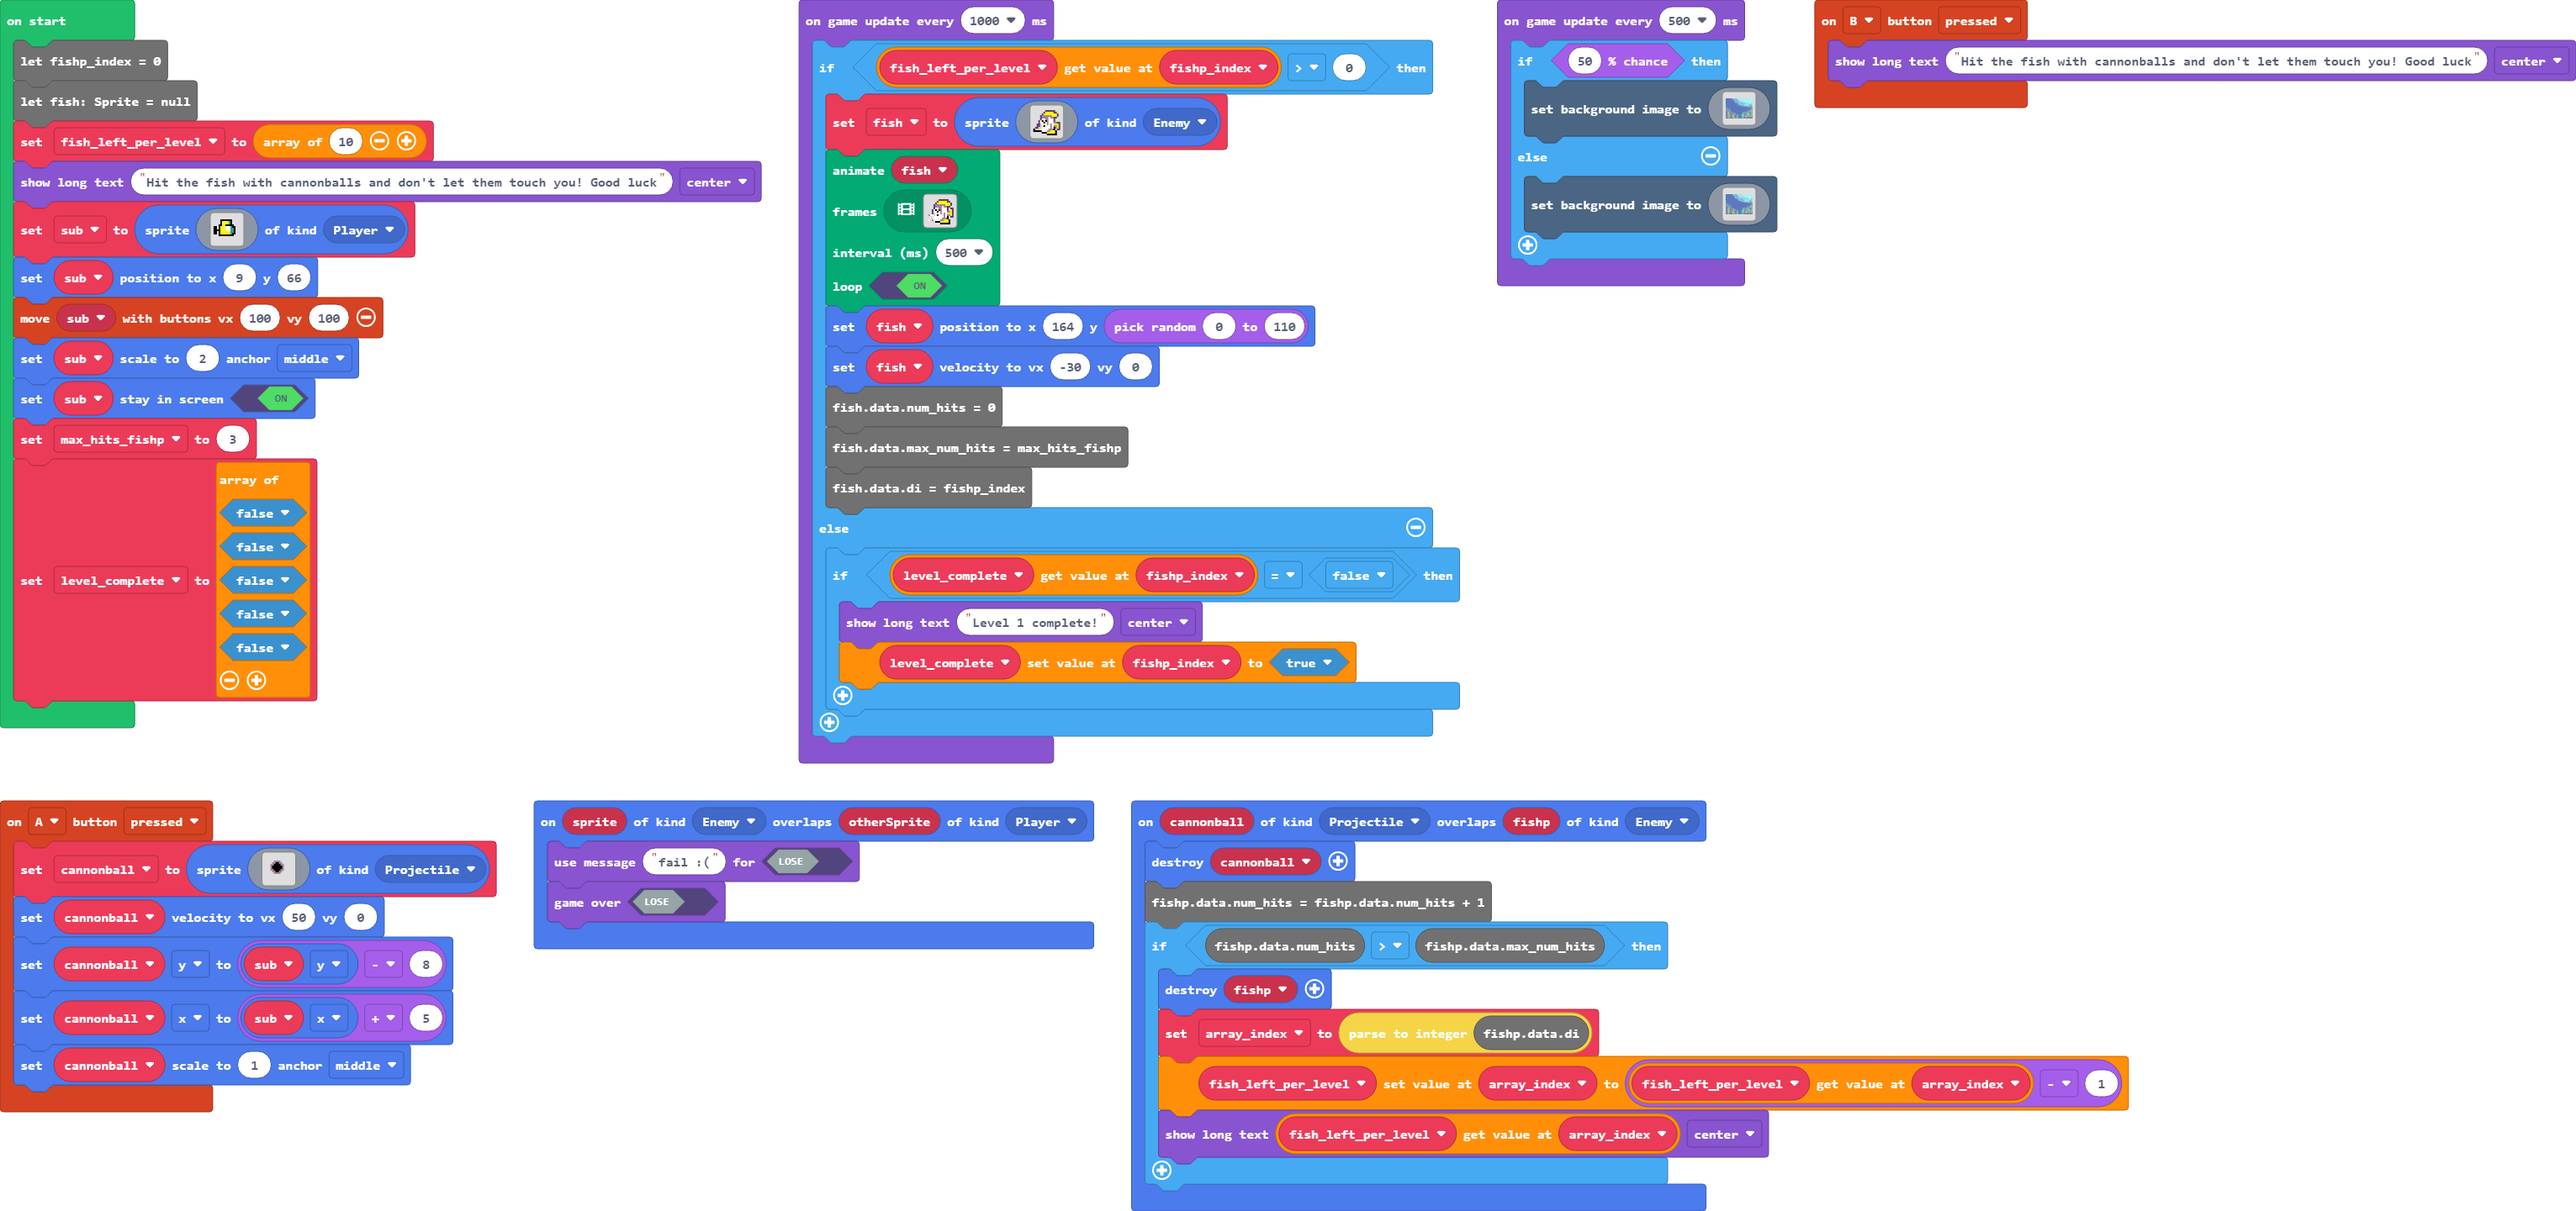
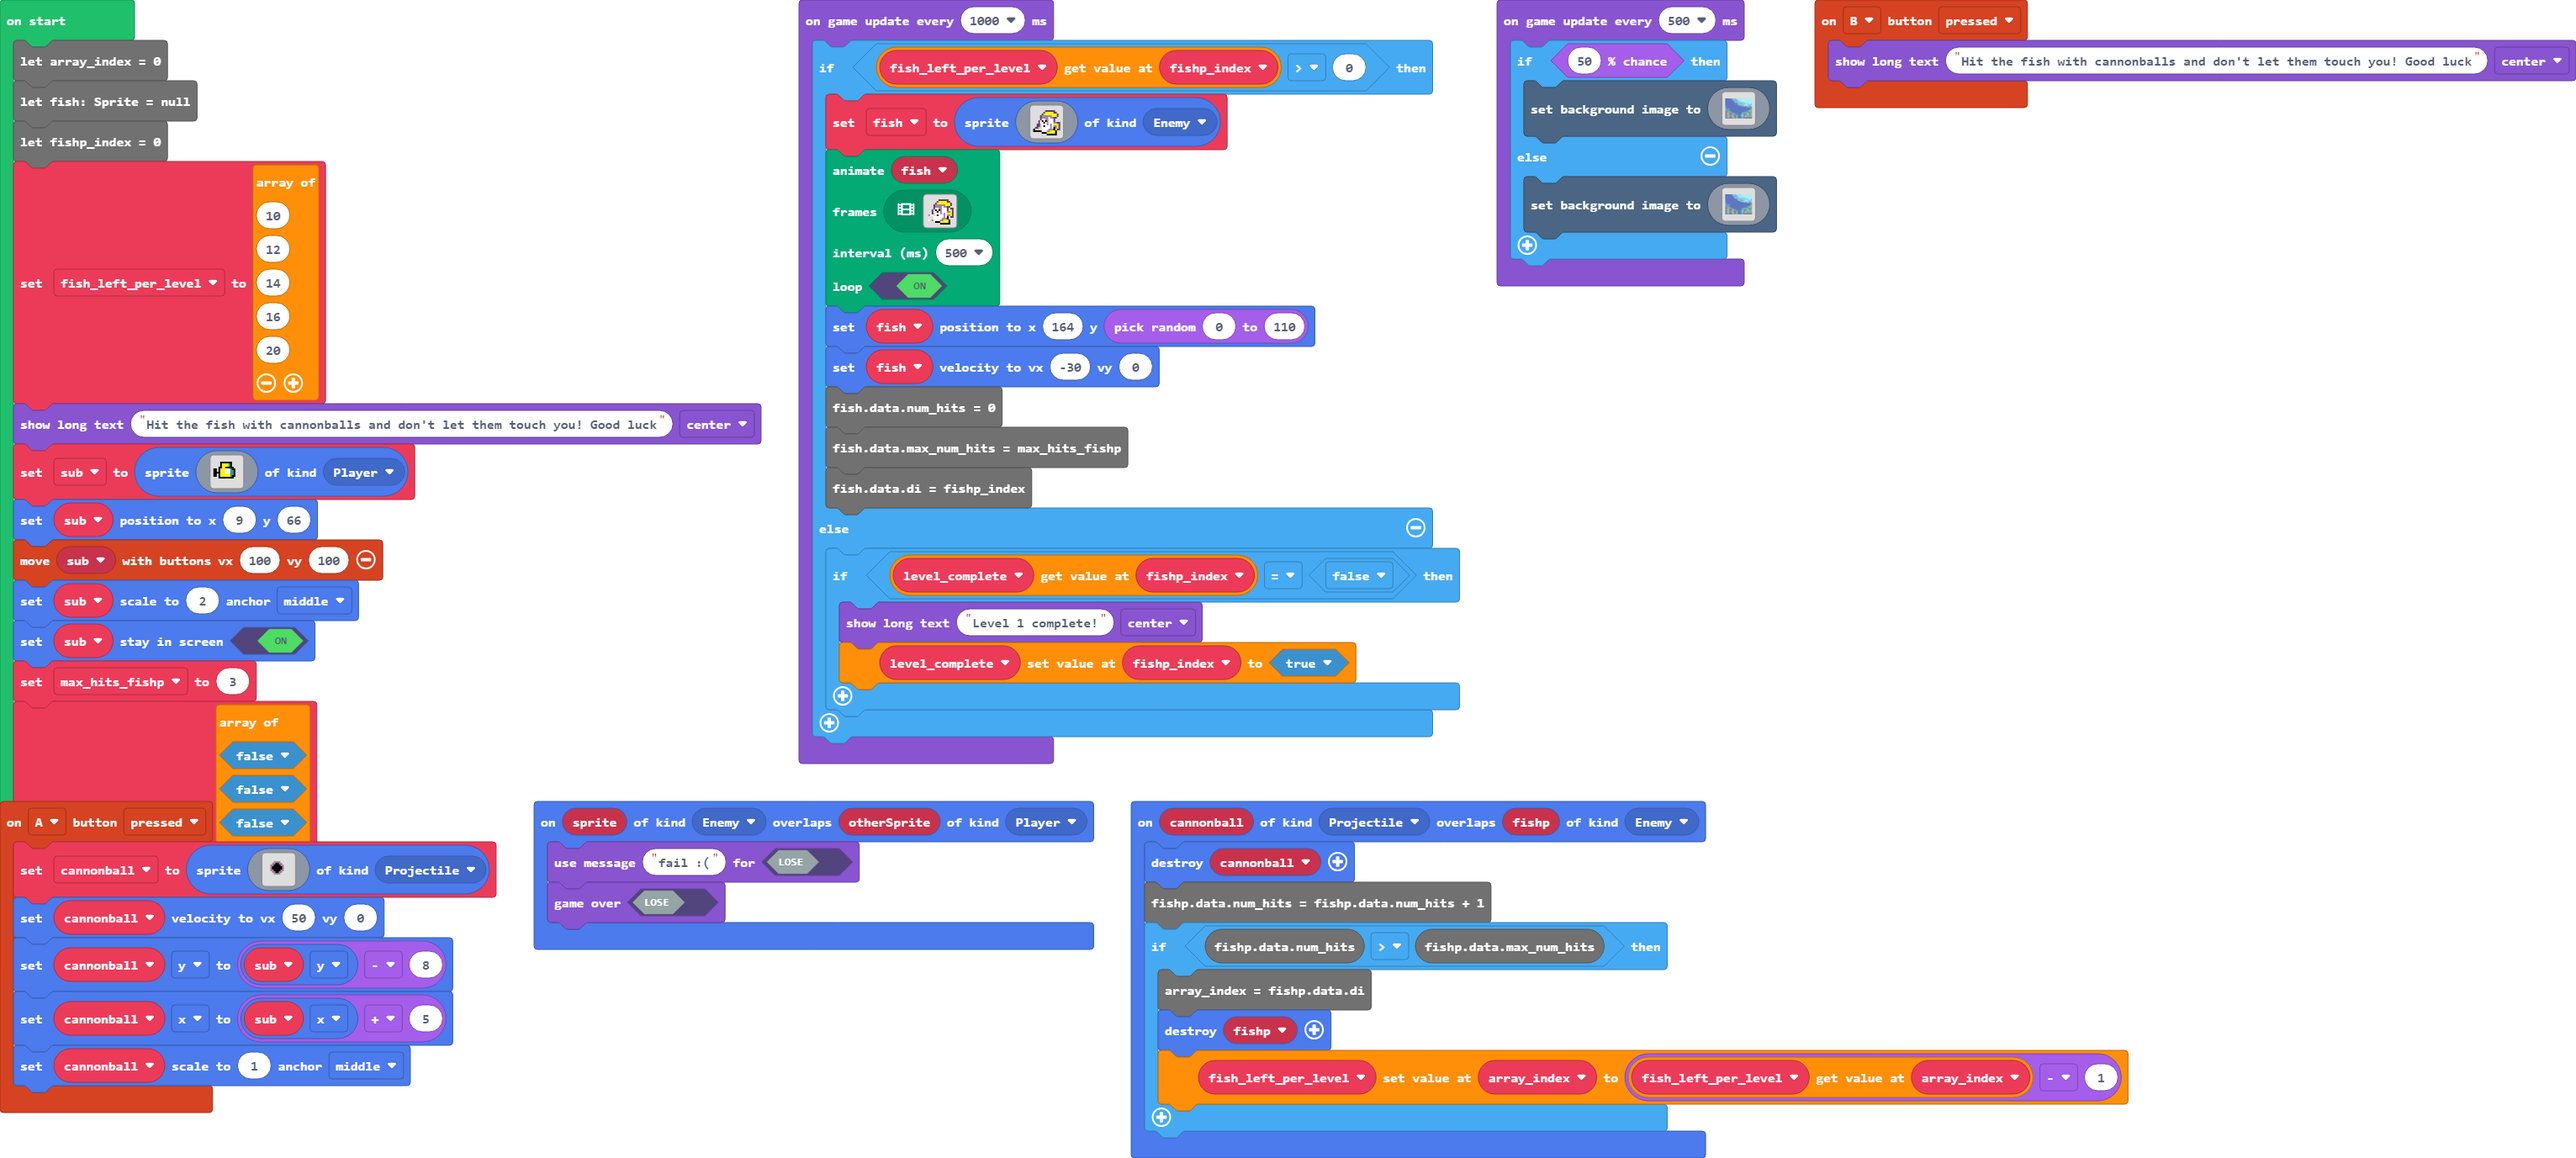
latest code

Changed region(s): [[0.0, 0.0, 0.8374, 0.968], [0.5583, 0.0, 1.0, 0.2498]]

diff --git a/main.ts b/main.ts
@@ -13,7 +13,7 @@ sprites.onOverlap(SpriteKind.Projectile, SpriteKind.Enemy, function (cannonball,
     fishp.data.num_hits = fishp.data.num_hits + 1
 if (fishp.data.num_hits > fishp.data.max_num_hits) {
         array_index = fishp.data.di
-        sprites.destroy(fishp)
+sprites.destroy(fishp)
         fish_left_per_level[array_index] = fish_left_per_level[array_index] - 1
     }
 })
@@ -21,13 +21,19 @@ sprites.onOverlap(SpriteKind.Enemy, SpriteKind.Player, function (sprite, otherSp
     game.setGameOverMessage(false, "fail :(")
     game.gameOver(false)
 })
-let array_index = 0
 let cannonball: Sprite = null
 let sub: Sprite = null
 let fish_left_per_level: number[] = []
-let fishp_index = 0
+let array_index = 0
 let fish: Sprite = null
-fish_left_per_level = [10]
+let fishp_index = 0
+fish_left_per_level = [
+10,
+12,
+14,
+16,
+20
+]
 game.showLongText("Hit the fish with cannonballs and don't let them touch you! Good luck", DialogLayout.Center)
 sub = sprites.create(assets.image`subby`, SpriteKind.Player)
 sub.setPosition(9, 66)
